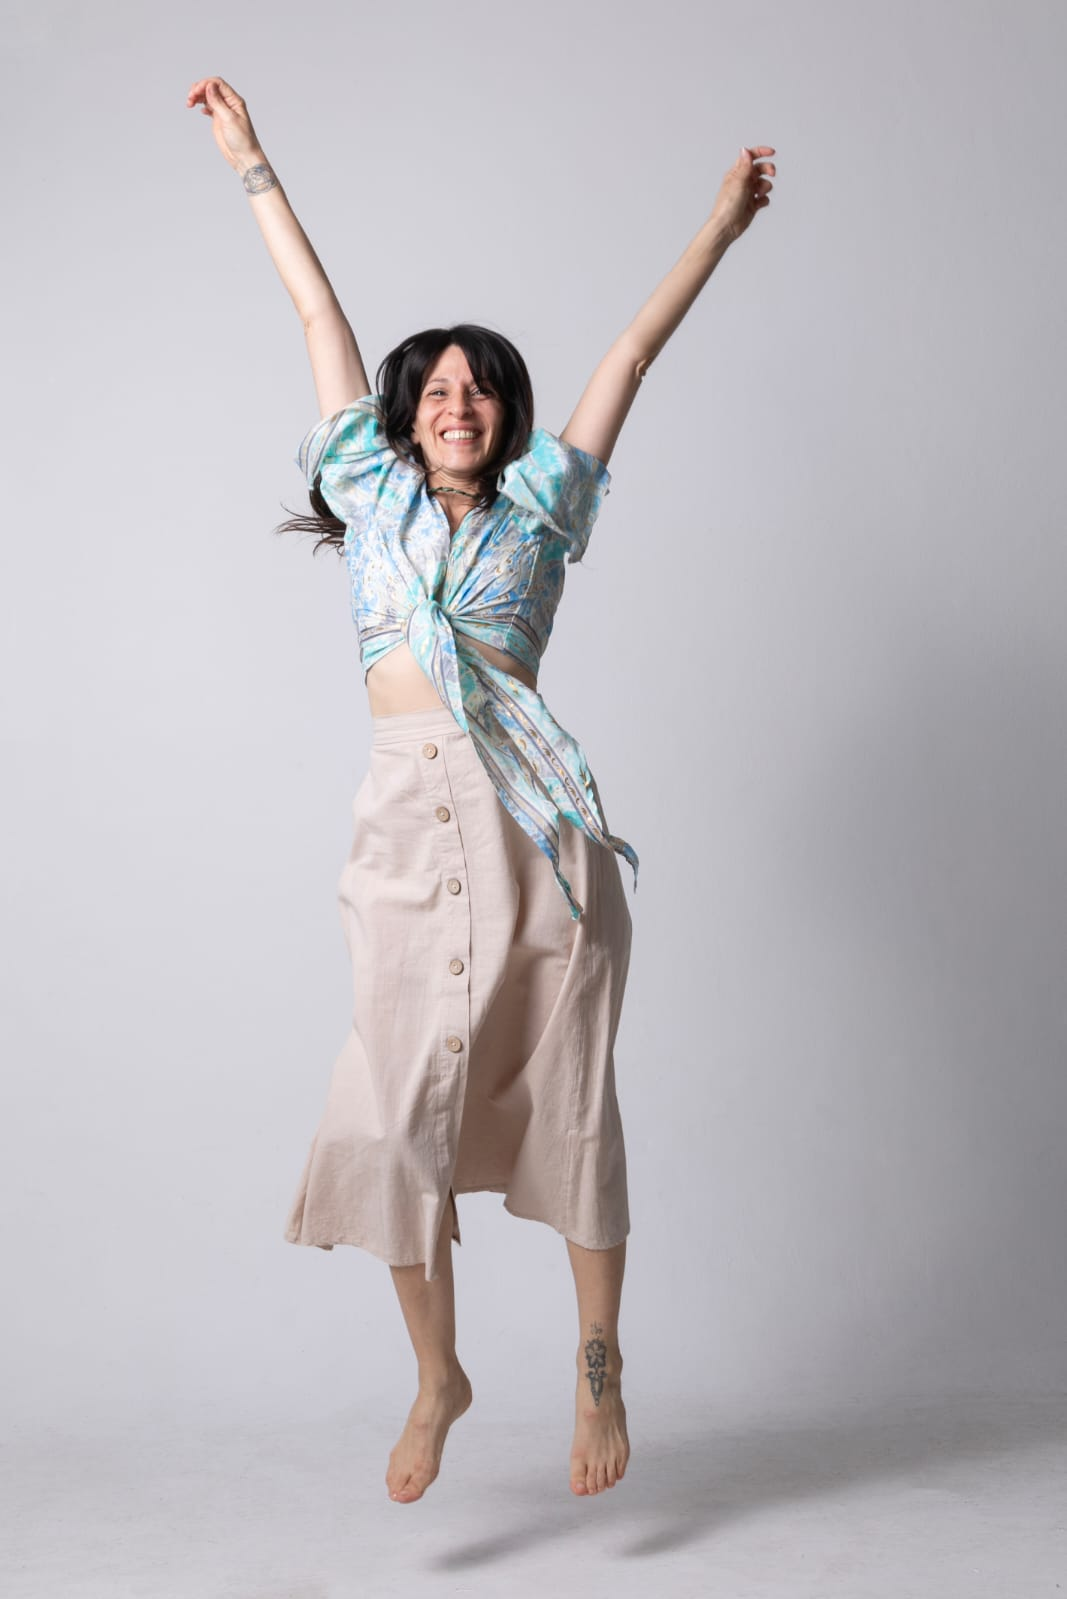
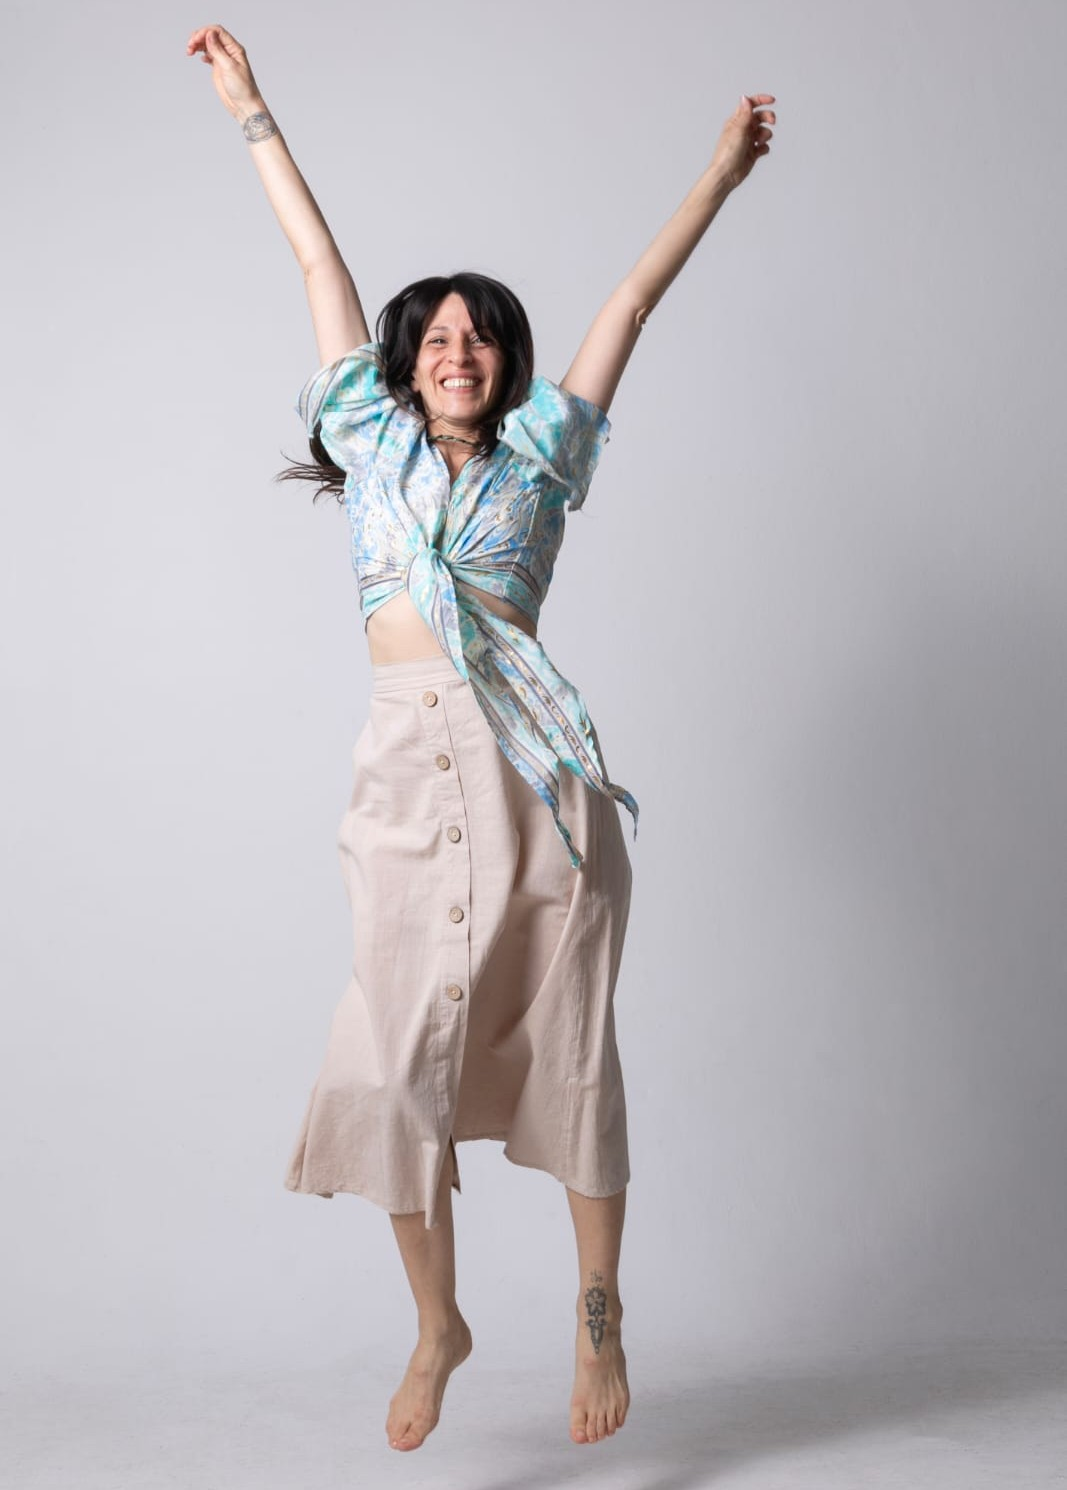
update testimonios e imagenes tamaño

Changed region(s): [[0.2474, 0.494, 1.0, 1.0], [0.1546, 0.0, 0.7423, 0.4631], [0.4021, 0.494, 0.433, 0.5248]]

diff --git a/html/consultoria.html b/html/consultoria.html
@@ -47,9 +47,9 @@
                         <a href="../index.html" class="block font-bold text-center p-2 menu-items md:px-4">Inicio</a>
                         <a href="../html/servicios.html"
                             class="block font-bold text-center p-2 menu-items md:px-4">Servicios</a>
-                        <a href="#"
-                            class="block font-bold text-center p-2 menu-items md:px-4">Consultoría 1:1</a>
-                        <a href="../html/conoceme.html" class="block font-bold text-center p-2 menu-items md:px-4">Conoceme</a>
+                        <a href="#" class="block font-bold text-center p-2 menu-items md:px-4">Consultoría 1:1</a>
+                        <a href="../html/conoceme.html"
+                            class="block font-bold text-center p-2 menu-items md:px-4">Conoceme</a>
                         <a href="../html/contactame.html"
                             class="block font-bold text-center p-2 menu-items md:px-4">Contactame</a>
                     </div>
@@ -58,7 +58,7 @@
 
         </header>
 
-        <main id="main-consultoria" class="px-3 md:px-20 lg:px-32 xl:px-44">
+        <main id="main-consultoria" class="px-3 pb-3 md:px-20 lg:px-32 xl:px-44">
 
             <h1 class="titulo-parrafo-1 text-3xl p-2 font-bold text-center mb-3 rounded-xl">
                 Consultoría 1:1
@@ -74,34 +74,58 @@
 
             <p class="text-justify mb-6 lg:text-lg">
                 <br>
-                ¡Hola! Me alegra mucho que estés aquí y que te intereses en los Encuentros Individuales. Este espacio está sentido y pensado para vos, para que puedas explorar tus inquietudes, lo que sientes y las circunstancias que has vivido para comprender tu presente. Es un lugar seguro donde juntos/as podemos trabajar en tu bienestar integral, abarcando todas las dimensiones de tu vida.
+                ¡Hola! Me alegra mucho que estés aquí y que te intereses en los Encuentros Individuales. Este espacio
+                está sentido y pensado para vos, para que puedas explorar tus inquietudes, lo que sientes y las
+                circunstancias que has vivido para comprender tu presente. Es un lugar seguro donde juntos/as podemos
+                trabajar en tu bienestar integral, abarcando todas las dimensiones de tu vida.
                 <br>
                 <br>
-                La Consultoría Holística que ofrezco se basa en una colaboración cercana, donde te acompañaré en el proceso de descubrir tus propias respuestas para avanzar con el flujo de la vida. La frase “Sin raíces no hay Alas” es muy significativa; nos recuerda la importancia de conocer nuestro pasado y honrar nuestros orígenes para poder volar hacia un futuro mejor.
+                La Consultoría Holística que ofrezco se basa en una colaboración cercana, donde te acompañaré en el
+                proceso de descubrir tus propias respuestas para avanzar con el flujo de la vida. La frase “Sin raíces
+                no hay Alas” es muy significativa; nos recuerda la importancia de conocer nuestro pasado y honrar
+                nuestros orígenes para poder volar hacia un futuro mejor.
                 <br>
                 <br>
-                Si sentís que es el momento de hacer un cambio, de transformar tus pensamientos y creencias, o simplemente de conocerte mejor, aquí estoy para apoyarte en ese camino y acompañarte en este viaje de evolución y sanación que yo misma he iniciado y comprobado ¿Hay algo específico que te gustaría explorar en nuestras sesiones?
+                Si sentís que es el momento de hacer un cambio, de transformar tus pensamientos y creencias, o
+                simplemente de conocerte mejor, aquí estoy para apoyarte en ese camino y acompañarte en este viaje de
+                evolución y sanación que yo misma he iniciado y comprobado ¿Hay algo específico que te gustaría explorar
+                en nuestras sesiones?
                 <br>
-                
+
                 <br>
-                ¿Te has sentido alguna vez atrapado/a en patrones repetitivos en tu vida? Es posible que no te des cuenta, pero la información que llevas contigo puede influir en tus pensamientos, emociones y acciones de manera sorprendente. Esta herencia transgeneracional se transmite de generación en generación, moldeando nuestra personalidad y nuestras relaciones con los demás.
+                ¿Te has sentido alguna vez atrapado/a en patrones repetitivos en tu vida? Es posible que no te des
+                cuenta, pero la información que llevas contigo puede influir en tus pensamientos, emociones y acciones
+                de manera sorprendente. Esta herencia transgeneracional se transmite de generación en generación,
+                moldeando nuestra personalidad y nuestras relaciones con los demás.
                 <br>
                 <br>
 
-                <img src="../media/consultoria2.jpg" alt="jessi carmona foto" class="mx-auto lg:w-2/3">
+                <img src="../media/consultoria2.jpg" alt="jessi carmona foto" class="mx-auto lg:w-1/2">
 
                 <br>
-                A menudo, actuamos y sentimos sin comprender del todo por qué. Es como si estuviéramos siguiendo un guion preestablecido, repitiendo programas y lealtades inconscientes que pueden estar limitando nuestro potencial, crecimiento y bienestar. Pero la buena noticia es que, al traer esta información a la luz de la conciencia, tenemos la oportunidad de transformarla y generar nuevas respuestas en la vida.
+                A menudo, actuamos y sentimos sin comprender del todo por qué. Es como si estuviéramos siguiendo un
+                guion preestablecido, repitiendo programas y lealtades inconscientes que pueden estar limitando nuestro
+                potencial, crecimiento y bienestar. Pero la buena noticia es que, al traer esta información a la luz de
+                la conciencia, tenemos la oportunidad de transformarla y generar nuevas respuestas en la vida.
                 <br>
                 <br>
-                Imagina poder deshacerte de esas cadenas invisibles, al hacerlo, no solo podrás crecer y prosperar, sino que también podrás crear vínculos más auténticos y desarrollarte en las áreas de tu vida que desees con más plenitud, paz y creatividad.
+                Imagina poder deshacerte de esas cadenas invisibles, al hacerlo, no solo podrás crecer y prosperar, sino
+                que también podrás crear vínculos más auténticos y desarrollarte en las áreas de tu vida que desees con
+                más plenitud, paz y creatividad.
                 <br>
-                
+
                 <br>
-                El proceso consta de dos sesiones online. En la primera, tendremos una entrevista para hablar sobre lo que te preocupa o deseas trabajar o modificar. En la segunda sesión, profundizaremos en tu razón de consulta durante al menos dos horas. Te guiaré con la apertura de tu árbol genealógico, la información de las constelaciones familiares, meditaciones y recursos que facilitan la comunicación verbal y la no verbal de aquello no expresado. Después de eso, te dejaré con algunas estrategias para que puedas seguir integrando lo que has aprendido.
+                El proceso consta de dos sesiones online. En la primera, tendremos una entrevista para hablar sobre lo
+                que te preocupa o deseas trabajar o modificar. En la segunda sesión, profundizaremos en tu razón de
+                consulta durante al menos dos horas. Te guiaré con la apertura de tu árbol genealógico, la información
+                de las constelaciones familiares, meditaciones y recursos que facilitan la comunicación verbal y la no
+                verbal de aquello no expresado. Después de eso, te dejaré con algunas estrategias para que puedas seguir
+                integrando lo que has aprendido.
                 <br>
                 <br>
-                Si decides avanzar, podes optar por pagar ambos encuentros juntos y obtener un BENEFICIO, o pagarlos por separado. Recuerda que los turnos se agendarán una vez que se complete el pago. Si tenes más preguntas o necesitas más información, ¡no dudes en preguntar! Te espero con Amor.
+                Si decides avanzar, podes optar por pagar ambos encuentros juntos y obtener un BENEFICIO, o pagarlos por
+                separado. Recuerda que los turnos se agendarán una vez que se complete el pago. Si tenes más preguntas o
+                necesitas más información, ¡no dudes en preguntar! Te espero con Amor.
             </p>
 
             <div class="text-center mb-5">
@@ -113,63 +137,83 @@
             <br>
 
             <!-- Testimonios -->
-            <section class="text-center">
-                <h2 id="subtitulo-testimonios" class="seccion-titulo text-2xl font-bold">Testimonios</h2>
-            
+            <section
+                class="relative text-white text-center bg-[url('../media/carouselTestimonios.jpg')] bg-center bg-no-repeat bg-contain min-h-[400px] sm:min-h-[500px] md:min-h-[600px] flex items-center justify-center px-4">
+
+                <!-- <h2 id="subtitulo-testimonios" class="seccion-titulo text-2xl font-bold">Testimonios</h2> -->
+
                 <div class="relative w-full max-w-lg mx-auto px-15">
-                    <div id="testimonios-container" class="overflow-hidden relative h-65">
-                        <div class="testimonio-slide opacity-100 transition-opacity duration-500 absolute inset-0 flex flex-col justify-center">
-                            <p class="testimonio-texto">“Venia muy bloqueada por un tema personal el cual ya venia
+                    <div id="testimonios-container" class="overflow-hidden relative min-h-[300px]">
+                        <div
+                            class="testimonio-slide opacity-100 transition-opacity duration-500 absolute inset-0 flex flex-col justify-center">
+                            <p class="testimonio-texto font-black italic text-base lg:text-xl">“Venia muy bloqueada por
+                                un tema personal el cual ya venia
                                 trabajando en otras terapias y procesos personales sin resolverlo. Me ayudo a sentir
                                 un alivio al peso que venia trayendo y a cambiar mi percepcion. Seguir adelante
                                 desde otra perspectiva, mirada y sentir”.</p>
-                            <p class="cliente font-bold">Sandra.</p>
+                            <!-- <p class="cliente font-bold">Sandra.</p> -->
                         </div>
-                        <div class="testimonio-slide opacity-0 transition-opacity duration-500 absolute inset-0 flex flex-col justify-center">
-                            <p class="testimonio-texto">“Me llevo herramientas para conectar conmigo misma en el día
+                        <div
+                            class="testimonio-slide opacity-0 transition-opacity duration-500 absolute inset-0 flex flex-col justify-center">
+                            <p class="testimonio-texto font-black italic text-base lg:text-xl">“Me llevo herramientas
+                                para conectar conmigo misma en el día
                                 a día. Se ha notado el cambio de carácter y como uno aprende a manejar mejor las
                                 cosas”.</p>
-                            <p class="cliente font-bold">Gloria.</p>
+                            <!-- <p class="cliente font-bold">Gloria.</p> -->
                         </div>
-                        <div class="testimonio-slide opacity-0 transition-opacity duration-500 absolute inset-0 flex flex-col justify-center">
-                            <p class="testimonio-texto">“Jessica supo guiarme con calidez humana para ayudarme en lo
+                        <div
+                            class="testimonio-slide opacity-0 transition-opacity duration-500 absolute inset-0 flex flex-col justify-center">
+                            <p class="testimonio-texto font-black italic text-base lg:text-xl">“Jessica supo guiarme con
+                                calidez humana para ayudarme en lo
                                 que estaba necesitando y tomar decisiones para mejorar”.</p>
-                            <p class="cliente font-bold">Alejo.</p>
+                            <!-- <p class="cliente font-bold">Alejo.</p> -->
                         </div>
-                        <div class="testimonio-slide opacity-0 transition-opacity duration-500 absolute inset-0 flex flex-col justify-center">
-                            <p class="testimonio-texto">“Un espacio valioso y liberador.”</p>
-                            <p class="cliente font-bold">Mariano.</p>
+                        <div
+                            class="testimonio-slide opacity-0 transition-opacity duration-500 absolute inset-0 flex flex-col justify-center">
+                            <p class="testimonio-texto font-black italic text-base lg:text-xl">“Un espacio valioso y
+                                liberador.”</p>
+                            <!-- <p class="cliente font-bold">Mariano.</p> -->
                         </div>
-                        <div class="testimonio-slide opacity-0 transition-opacity duration-500 absolute inset-0 flex flex-col justify-center">
-                            <p class="testimonio-texto">“Me ayudo a conocer mis emociones internas y poder ir
+                        <div
+                            class="testimonio-slide opacity-0 transition-opacity duration-500 absolute inset-0 flex flex-col justify-center">
+                            <p class="testimonio-texto font-black italic text-base lg:text-xl">“Me ayudo a conocer mis
+                                emociones internas y poder ir
                                 encontrando un equilibrio, a pesar de las resistencias”.</p>
-                            <p class="cliente font-bold">Sandra.</p>
+                            <!-- <p class="cliente font-bold">Sandra.</p> -->
                         </div>
-                        <div class="testimonio-slide opacity-0 transition-opacity duration-500 absolute inset-0 flex flex-col justify-center">
-                            <p class="testimonio-texto">“Este espacio y tiempo dedicado a la introspección es muy
+                        <div
+                            class="testimonio-slide opacity-0 transition-opacity duration-500 absolute inset-0 flex flex-col justify-center">
+                            <p class="testimonio-texto font-black italic text-base lg:text-xl">“Este espacio y tiempo
+                                dedicado a la introspección es muy
                                 valioso. Me llevo una experiencia completa”.</p>
-                            <p class="cliente font-bold">Aldana.</p>
+                            <!-- <p class="cliente font-bold">Aldana.</p> -->
                         </div>
-                        <div class="testimonio-slide opacity-0 transition-opacity duration-500 absolute inset-0 flex flex-col justify-center">
-                            <p class="testimonio-texto">“Aprendí a darme eso que tanto buscaba y necesitaba siempre
+                        <div
+                            class="testimonio-slide opacity-0 transition-opacity duration-500 absolute inset-0 flex flex-col justify-center">
+                            <p class="testimonio-texto font-black italic text-base lg:text-xl">“Aprendí a darme eso que
+                                tanto buscaba y necesitaba siempre
                                 del afuera. Estas herramientas me sirvieron para calmar esta ansiedad y dejarme en
                                 paz”.</p>
-                            <p class="cliente font-bold">Hernán.</p>
+                            <!-- <p class="cliente font-bold">Hernán.</p> -->
                         </div>
-                        <div class="testimonio-slide opacity-0 transition-opacity duration-500 absolute inset-0 flex flex-col justify-center">
-                            <p class="testimonio-texto">“Jessica es muy profesional en la manera que conduce la
+                        <div
+                            class="testimonio-slide opacity-0 transition-opacity duration-500 absolute inset-0 flex flex-col justify-center">
+                            <p class="testimonio-texto font-black italic text-base lg:text-xl">“Jessica es muy
+                                profesional en la manera que conduce la
                                 sesión, los resultados fueron increíbles. Logre ver varias cosas que estaban en mí y
                                 no tenía ni idea. Me dejo un montón de material para trabajar conmigo”.</p>
-                            <p class="cliente font-bold">Patricio.</p>
+                            <!-- <p class="cliente font-bold">Patricio.</p> -->
                         </div>
-                        <div class="testimonio-slide opacity-0 transition-opacity duration-500 absolute inset-0 flex flex-col justify-center">
-                            <p class="testimonio-texto">“Me ayudo a comprender varios aspectos de mi presente y a
+                        <div
+                            class="testimonio-slide opacity-0 transition-opacity duration-500 absolute inset-0 flex flex-col justify-center">
+                            <p class="testimonio-texto font-black italic text-base lg:text-xl">“Me ayudo a comprender
+                                varios aspectos de mi presente y a
                                 aprender a autoobservarme, a tener en cuenta otras perspectivas y posibilidades para
                                 el desarrollo de mi vida”.</p>
-                            <p class="cliente font-bold">Mariana.</p>
+                            <!-- <p class="cliente font-bold">Mariana.</p> -->
                         </div>
                     </div>
-            
+
                     <!-- Botones de navegación -->
                     <button id="prev"
                         class="absolute cursor-pointer left-0 top-1/2 transform -translate-y-1/2 bg-gray-300 text-black px-3 py-1 rounded-l-md">❮</button>

diff --git a/html/servicios.html b/html/servicios.html
@@ -87,7 +87,7 @@
 
             <br>
 
-            <img src="../media/servicios1.jpg" alt="jessi carmona foto" class="mx-auto lg:w-2/3">
+            <img src="../media/servicios1.jpg" alt="jessi carmona foto" class="mx-auto lg:w-1/2">
 
             <h2 class="my-2 text-center">
                 TALLER VIVENCIAL GRUPAL
@@ -123,7 +123,7 @@
 
             <br>
 
-            <img src="../media/servicios2.jpg" alt="jessi carmona foto" class="mx-auto lg:w-2/3">
+            <img src="../media/servicios2.jpg" alt="jessi carmona foto" class="mx-auto lg:w-1/2">
 
             <h2 class="my-2 text-center">
                 TALLER VIVENCIAL GRUPAL
@@ -159,7 +159,7 @@
 
             <br>
 
-            <img src="../media/servicios3.jpeg" alt="jessi carmona foto" class="mx-auto lg:w-2/3">
+            <img src="../media/servicios3.jpeg" alt="jessi carmona foto" class="mx-auto lg:w-1/2">
 
             <h2 class="my-2 text-center">
                 TALLER VIVENCIAL GRUPAL

diff --git a/html/conoceme.html b/html/conoceme.html
@@ -92,7 +92,7 @@
                 <br>
                 <br>
 
-                <img src="../media/conoceme2.jpg" alt="jessi carmona foto" class="mx-auto lg:w-2/3">
+                <img src="../media/conoceme2.jpg" alt="jessi carmona foto" class="mx-auto lg:w-1/2">
 
 
                 <br>

diff --git a/html/contactame.html b/html/contactame.html
@@ -65,7 +65,7 @@
             </h1>
 
             <div>
-                <img src="../media/contactame1.jpg" alt="jessi carmona foto" class="mx-auto lg:w-2/3">
+                <img src="../media/contactame1.jpg" alt="jessi carmona foto" class="mx-auto lg:w-1/2">
 
                 <br>
 
